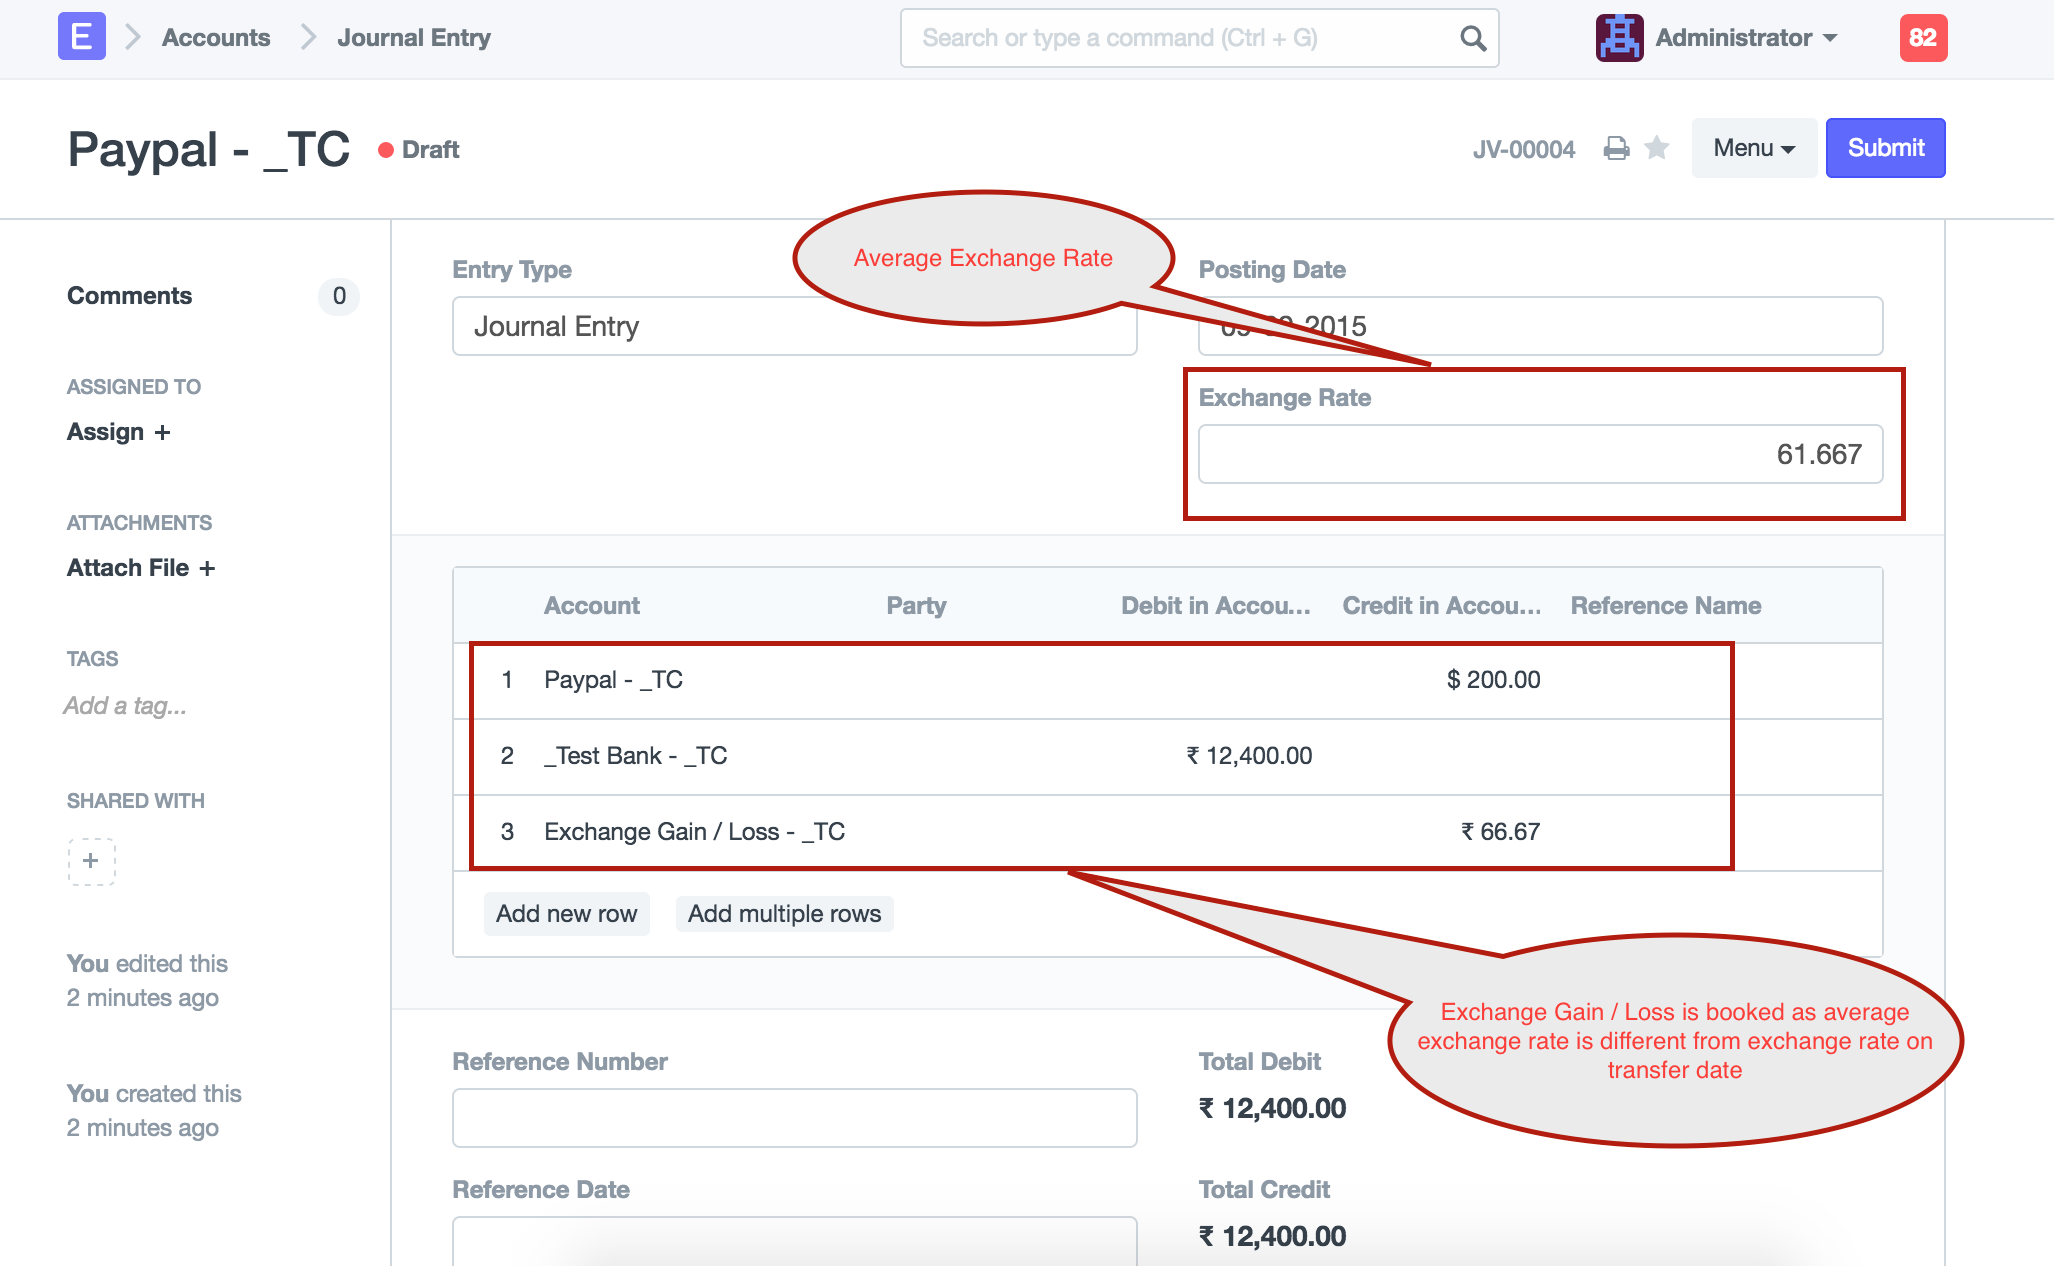
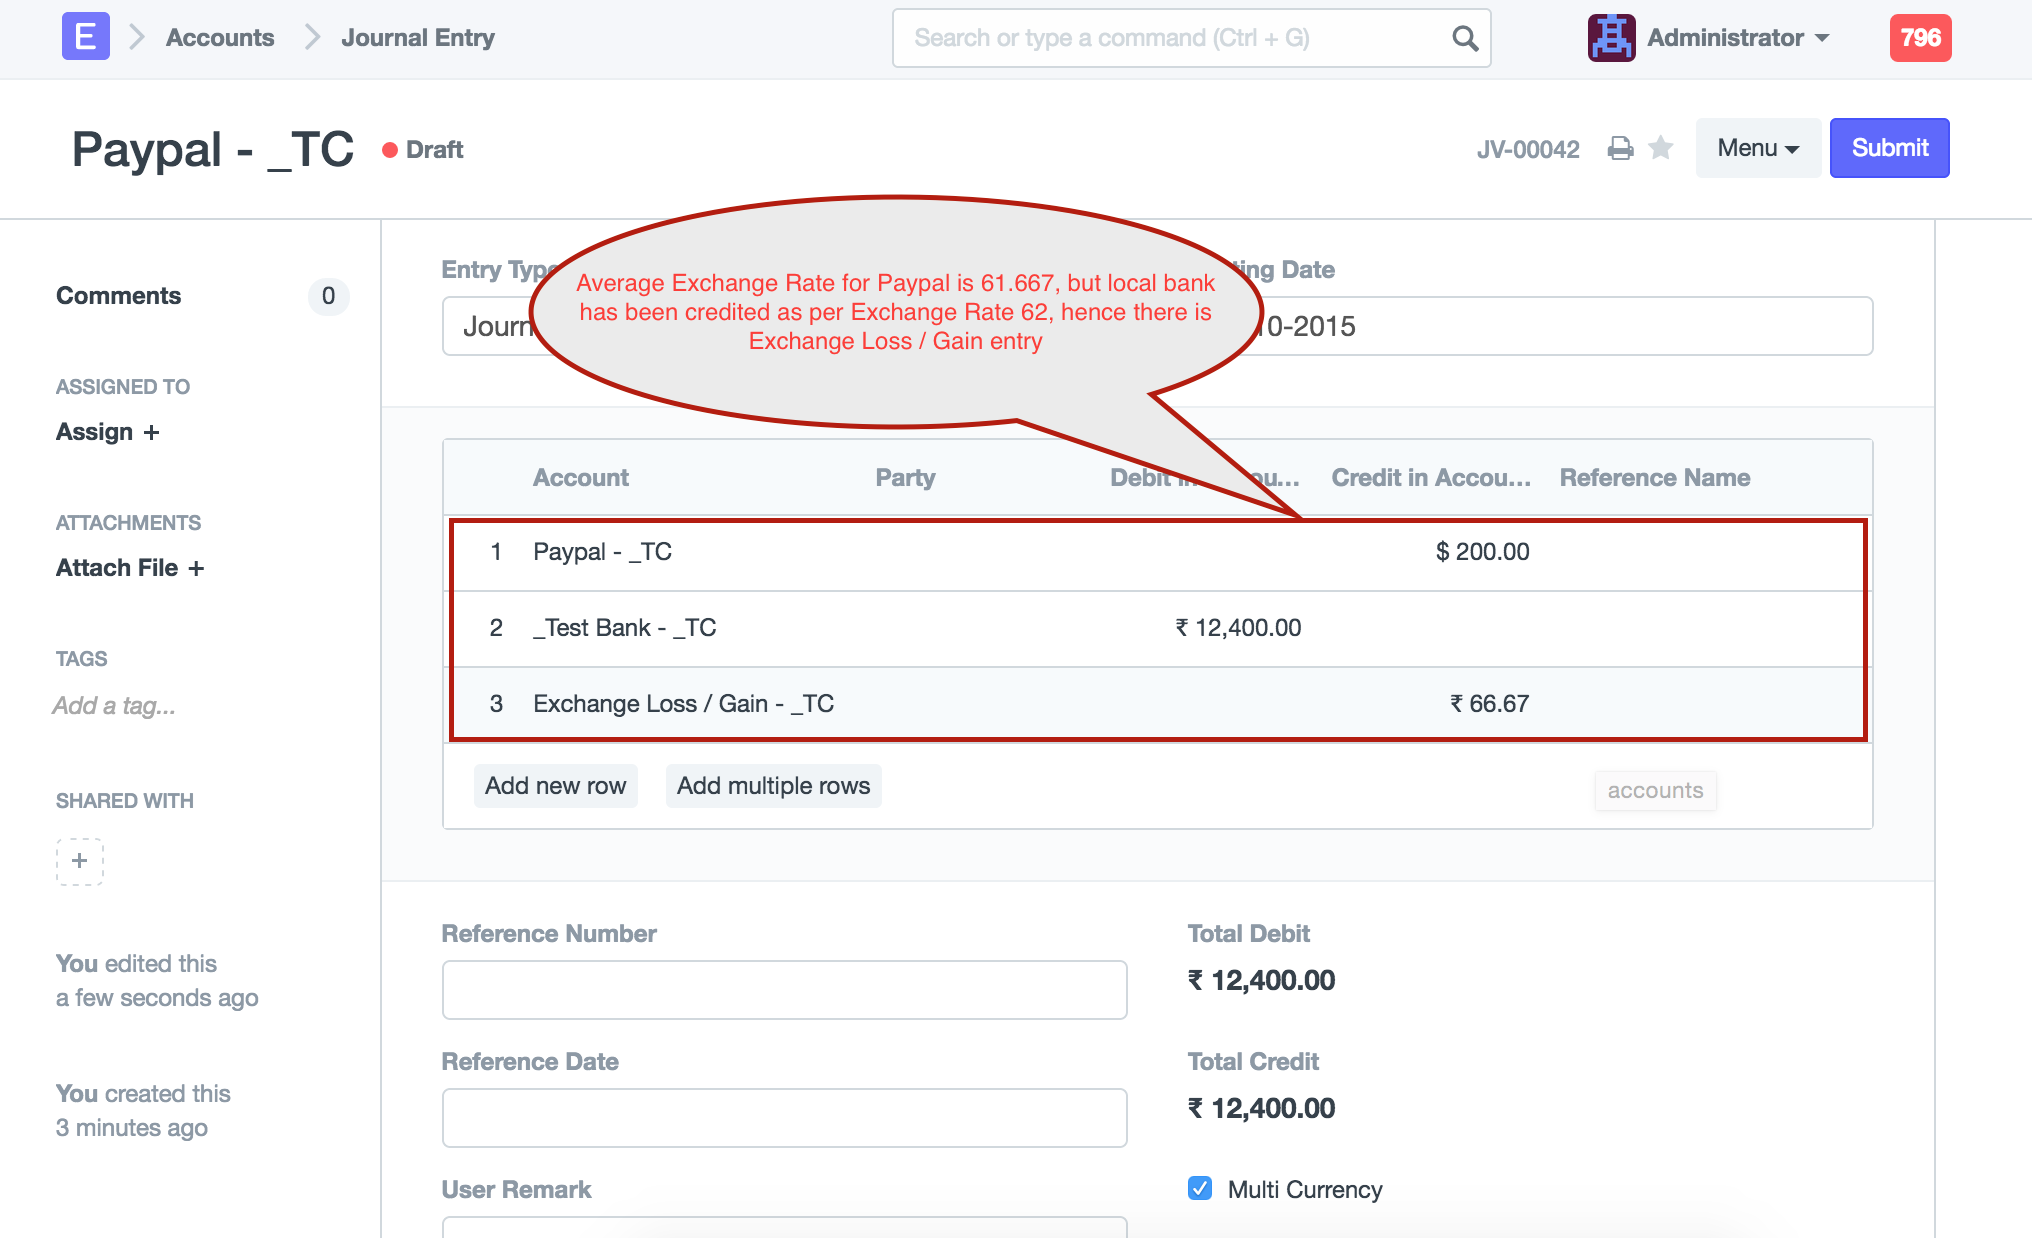
Multi Currency Manual Update: Exchange rate in Journal Entry

diff --git a/manual_erpnext_com/www/contents/accounts/multi-currency-accounting.md b/manual_erpnext_com/www/contents/accounts/multi-currency-accounting.md
@@ -39,11 +39,14 @@ Similarly, in Purchase Invoice, accounting entries will be made based on Supplie
 
 ### Journal Entry
 
-In Journal Entry, you can make transactions in different currencies. In Accounts table, on selection of foreign currency account, system will fetch Exchange Rate automatically. You can change / modify the Exchange Rate manually.
+In Journal Entry, you can make transactions in different currencies. There is a checkbox "Multi Currency", to enable multi-currency entries. If "Multi Currency" option selected, you will be able to select accounts with different currencies.
 
-<img class="screenshot" alt="Journal Entry Exchange Rate"  	src="/assets/manual_erpnext_com/img/accounts/multi-currency/journal-entry-exchange-rate.png">
+<img class="screenshot" alt="Journal Entry Exchange Rate"  	src="/assets/manual_erpnext_com/img/accounts/multi-currency/journal-entry-multi-currency.png">
 
-In a Journal Entry, you can select accounts with only one alternate currency, apart from accounts in Company Currency. Debit / Credit amount will be entered in Account Currency, system will calculate and show the Debit / Credit amount in Company Currency.
+ 
+In Accounts table, on selection of foreign currency account, system will show Currency section and fetch Account Currency and Exchange Rate automatically. You can change / modify the Exchange Rate later manually.
+
+In a single Journal Entry, you can select accounts with only one alternate currency, apart from accounts in Company Currency. Debit / Credit amount should be entered in Account Currency, system will calculate and show the Debit / Credit amount in Company Currency automatically.
 
 <img class="screenshot" alt="Journal Entry in multi currency"  	src="/assets/manual_erpnext_com/img/accounts/multi-currency/journal-entry-row.png">
 
